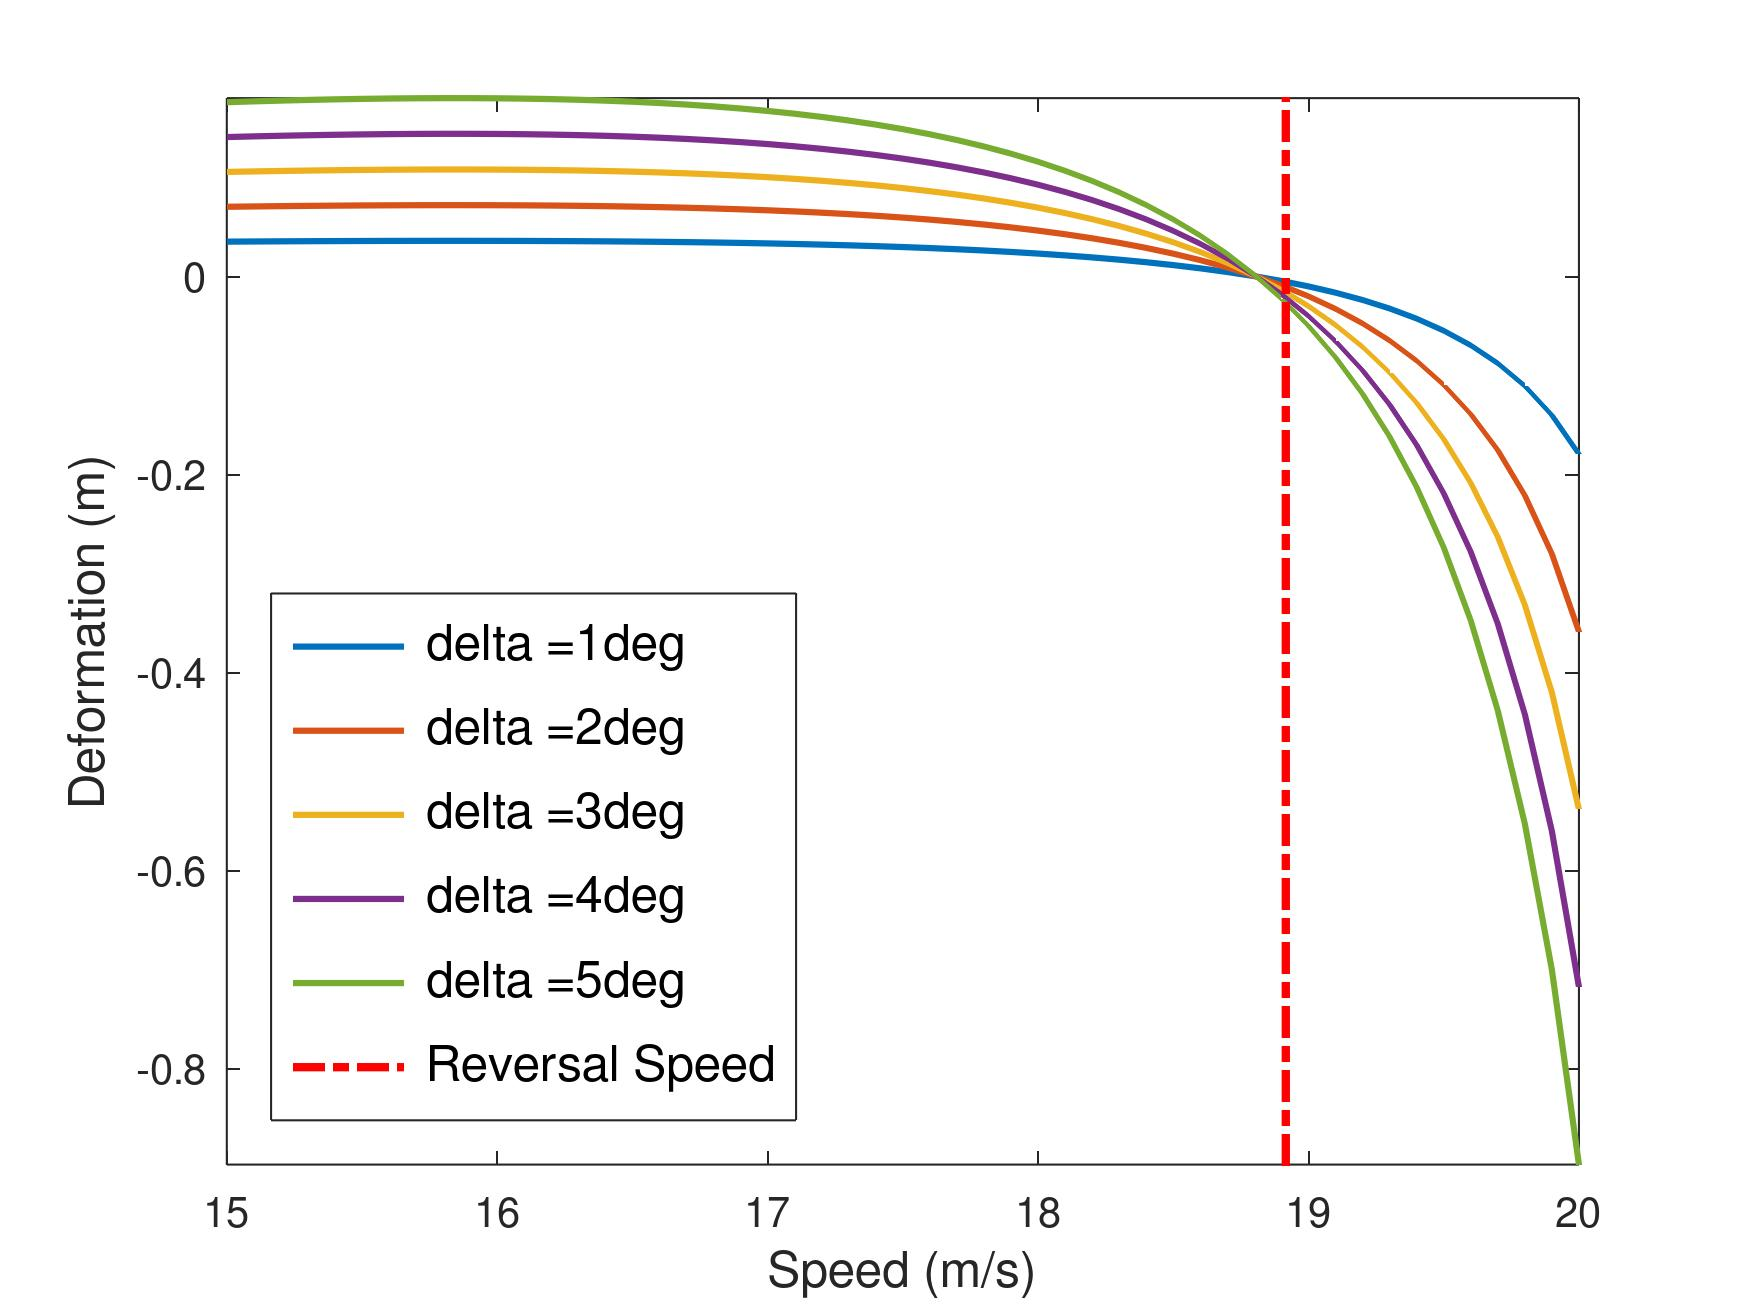
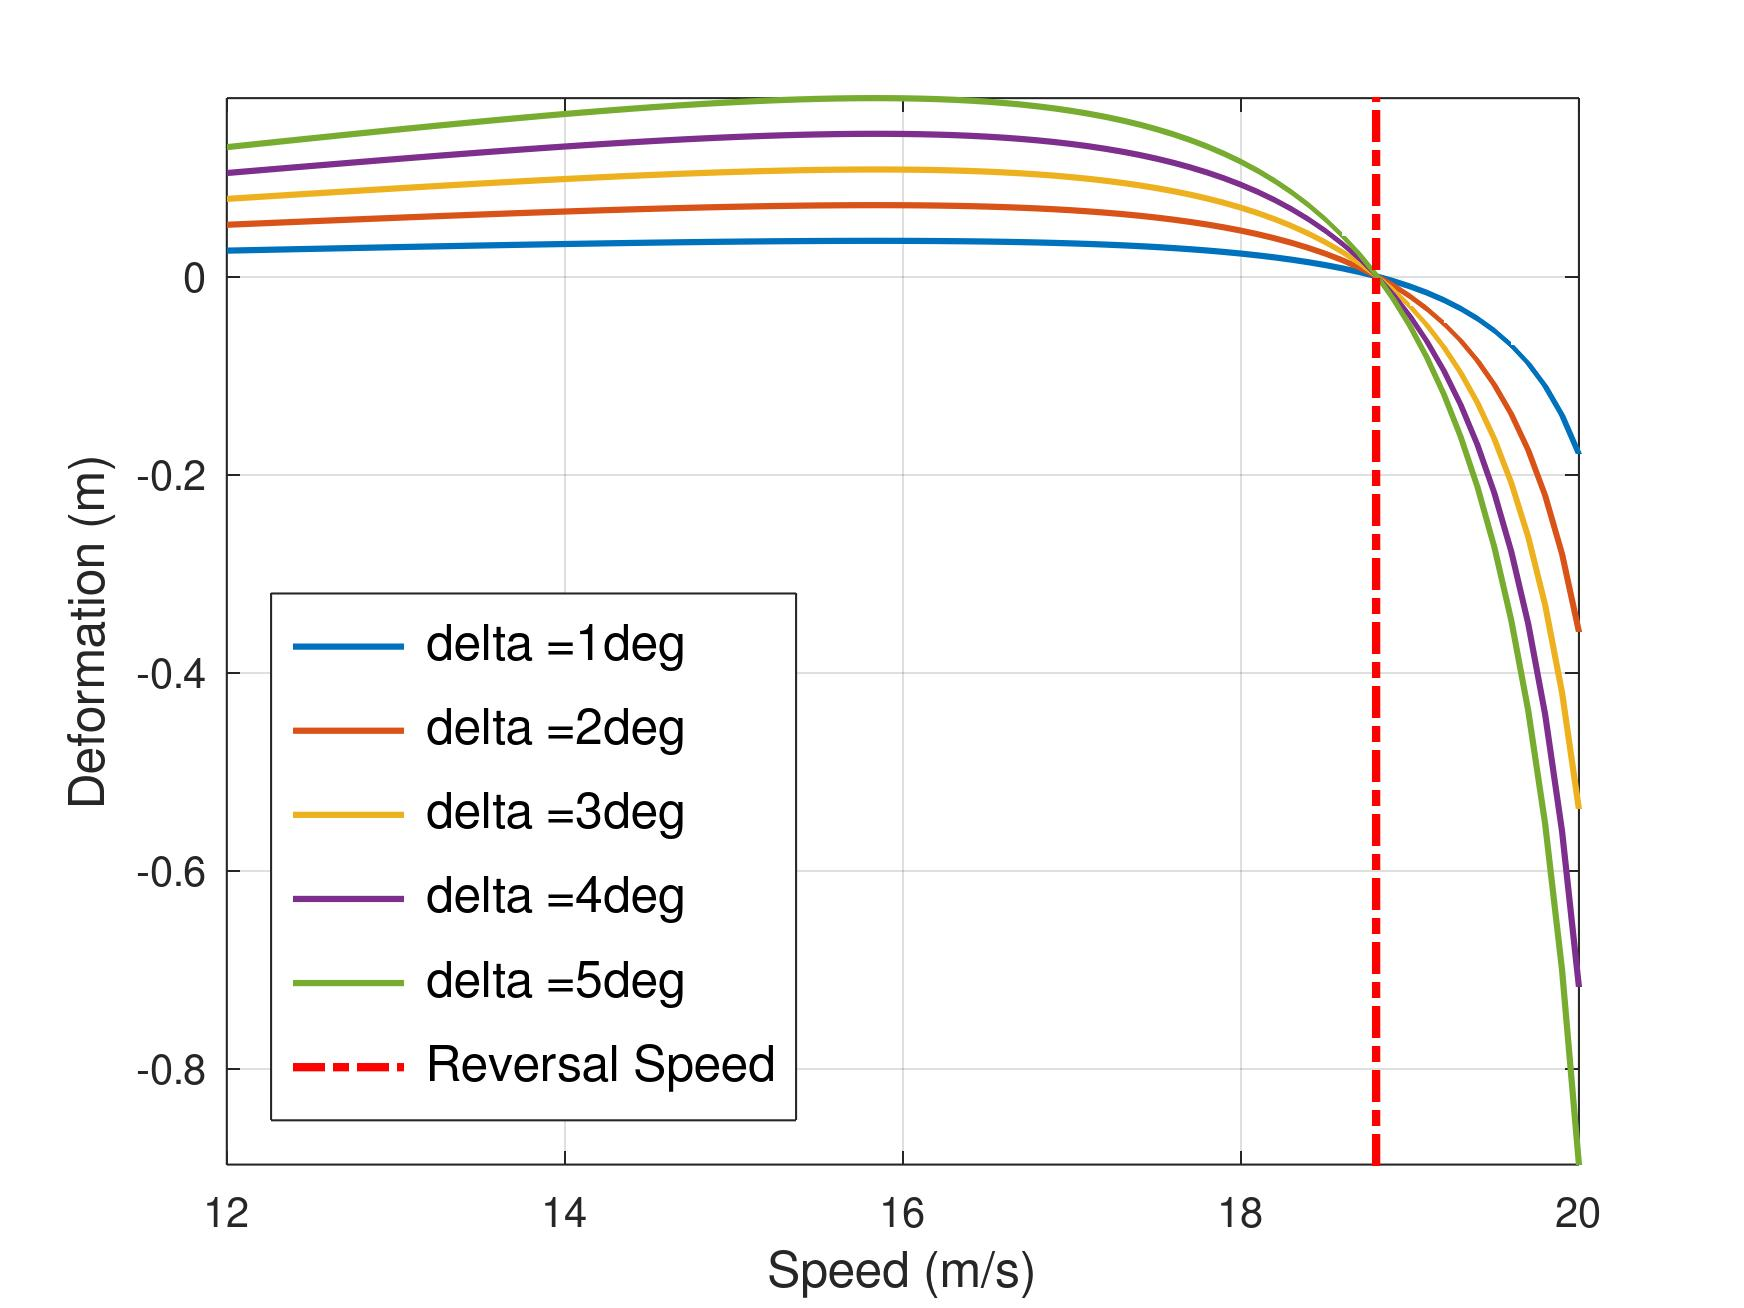
revseral plot uploaded

diff --git a/pkbeam/Nov14_reversal.m b/pkbeam/Nov14_reversal.m
@@ -12,7 +12,7 @@ l =1.6; % m
 b = 0.175; % m
 ba = 0.03 ;
 % measured from lab % Not correct need to be calculate again
-mhinge = 0;
+mhinge = 28/1000;
 t = 0.004;%m
 
 rhop = 1950; % Measured Density
@@ -55,7 +55,7 @@ delta = del.*pi/180; % rad
 % Set speed
 iu = 0; 
 
-for u = 15:.1:20
+for u = 12:.1:20
     iu = iu+1;
     
     q = 0.5* Qip.rho * u * u;
@@ -64,61 +64,77 @@ for u = 15:.1:20
         % Solve for the deformation
         v = (K-q*A)\(q*f*delta(d));
             
-            % plotmode(v);
 
             % Plot deformation 
         v_all(iu,:) = v;
+        CR(d,iu) = CRv * v + CRd*d;
         deform_tip(d,iu) = v(end-2);
     end
     uv(iu) = u;
 end
 
+% A_eig = A - f*CRv./CRd;
+% [V,D] = eig(A_eig , K);
+% qrev = 1/max(diag(D));
+% urev = sqrt(2*qrev/Qip.rho);
+
+
+location = abs(deform_tip(1,:)-deform_tip(2,:)) <= 0.001;
+urev = uv(location);
+% Plot the deformation VS velocity 
+% figure(1)
+
+% for d = del
+% plot(uv,deform_tip(d,:),"-","linewidth",1.5);
+% hold on 
+
+% end
+% plot([urev urev],[min(min(deform_tip))-0.2 max(max(deform_tip))+0.2],"r-.","linewidth",2);
+% grid()
+% leg = legend({  ["{\delta} ="   num2str(del(1)) "deg"], ...
+%                 ["{\delta} =" num2str(del(2)) "deg"], ...
+%                 ["{\delta} =" num2str(del(3)) "deg"], ...
+%                 ["{\delta} =" num2str(del(4)) "deg"], ...
+%                 ["{\delta} =" num2str(del(5)) "deg"], ...
+%                 ["Reversal Speed"],...
+            
+
+
+%             });
+% axis([min(uv) max(uv) min(min(deform_tip)) max(max(deform_tip))])
+% set(leg,"location","southwest","fontsize",12,'interpreter', 'tex');
+% xlabel("Speed (m/s)","fontsize",12);
+% ylabel("Deformation (m)","fontsize",12);
+
+% print -djpg -r300 Reversal_vs_speed.jpg
+
 A_eig = A - f*CRv./CRd;
 [V,D] = eig(A_eig , K);
 qrev = 1/max(diag(D));
 urev = sqrt(2*qrev/Qip.rho);
-
-% Plot the deformation VS velocity 
-figure(1)
-
-for d = del
-plot(uv,deform_tip(d,:),"linewidth",1.5);
-hold on 
-end
-plot([urev urev],[min(min(deform_tip))-0.2 max(max(deform_tip))+0.2],"r-.","linewidth",2);
-leg = legend({  ["{\delta} ="   num2str(del(1)) "deg"], ...
-                ["{\delta} =" num2str(del(2)) "deg"], ...
-                ["{\delta} =" num2str(del(3)) "deg"], ...
-                ["{\delta} =" num2str(del(4)) "deg"], ...
-                ["{\delta} =" num2str(del(5)) "deg"], ...
-                ["Reversal Speed"]
-
-
-            });
-axis([min(uv) max(uv) min(min(deform_tip)) max(max(deform_tip))])
-set(leg,"location","southwest","fontsize",12,'interpreter', 'tex');
-xlabel("Speed (m/s)","fontsize",12);
-ylabel("Deformation (m)","fontsize",12);
-
-print -djpg -r300 Reversal_vs_speed.jpg
-
 fprintf("The reverse velocity is %.2f\n",urev);
+% figure(2)
+% plot(uv,CR(1,:));
+% hold on
+% plot([urev urev],[(min(CR(1,:))) max(CR(1,:))],"r-.","linewidth",2);
+
+figure(12)
+plotmode_multi(v_all(68,:));
+hold on
+plotmode_multi(v_all(location,:));
+plotmode_multi(v_all(72,:));
+grid()
+axis([0 l+0.1 -0.1 0.05]);
+leg = legend({  ["u = " num2str(uv(68)) "m/s"], ...
+                ["u_{reversal} =" num2str(uv(70)) "m/s"],....
+                ["u = " num2str(uv(72)) "m/s"],....
+            
+            })
+            
+set(leg,'location',"southwest","fontsize",14);
+print -djpg -r300 Reversal_deflection.jpg
 
 return;
-% Compute the aileron reverse
-A_eig = A - f*CRv./CRd;
-[V,D] = eig(A_eig , K);
-qrev = 1/max(diag(D));
-urev = sqrt(2*qrev/Qip.rho);
-
-figure(2)
-set(get(gca, 'Title'), 'String', 'The deformation before reversal speed');
-plotmode(v_all(30,:));
-
-figure(3)
-set(get(gca, 'Title'), 'String', 'The deformation after reversal speed');
-plotmode(v_all(42,:));
-
 % The reversal speed should be less than divergence
 % The flutter velocity should be lower than the divergence
 % u_flutter = 16 

diff --git a/pkbeam/Dec1_windtunnel.m b/pkbeam/Dec1_windtunnel.m
@@ -34,7 +34,7 @@ B = eye(3,ndof);
 nmode = 6;
 neig = 3;
 
-npmass = 12 ;
+npmass = 8 ;
 m1 = (40.33+6.39+2)/1000; %kg
 m2 = (20.06+2*2)/1000; %kg
 m3 = (40.33+2*6.39+2*2)/1000; %kg
@@ -53,22 +53,24 @@ ex_mass2 = 100/1000;
 ex_mass3 = 150/1000;
 % Method 1 Flutter speed = 24.4/s for DLM & 20.50 for Strip
 
-dpm(8,:) = [2*ex_mass3,-b l];
-dpm(9,:) = [2*ex_mass2,-b (5.5/6) *l]; % 1.4667m
+dpm(8,:) = [300/1000 -b l];
+dpm(9,:) = [100/1000 -b l-0.1];
+dpm(10,:) = [100/1000 -b l-0.4];
+% dpm(9,:) = [2*ex_mass2,-b (5.5/6) *l]; % 1.4667m
 
-% % Method 2 Flutter speed = 24.9m/s for DLM & 20.90m/s for Strip
-dpm(8,:) = [ex_mass3+ex_mass3,-b l];
-dpm(9,:) = [ex_mass2+ex_mass2,-b (4.8/5) *l]; %1.5360m
+% % % Method 2 Flutter speed = 24.9m/s for DLM & 20.90m/s for Strip
+% dpm(8,:) = [ex_mass3+ex_mass3,-b l];
+% dpm(9,:) = [ex_mass2+ex_mass2,-b (4.8/5) *l]; %1.5360m
 
-% % Method 3 Flutter speed = 25.50 m/s for DLM & 21.4m/s for Strip
-dpm(8,:) = [ex_mass3+ex_mass3,-b l];
-dpm(9,:) = [ex_mass2+ex_mass2,-b (4.8/5) *l];
-dpm(10,:) = [ex_mass1*2,-b (3.5/5) *l]; % 1.12m
+% % % Method 3 Flutter speed = 25.50 m/s for DLM & 21.4m/s for Strip
+% dpm(8,:) = [ex_mass3+ex_mass3,-b l];
+% dpm(9,:) = [ex_mass2+ex_mass2,-b (4.8/5) *l];
+% dpm(10,:) = [ex_mass1*2,-b (3.5/5) *l]; % 1.12m
 
-% % Method 4 Flutter speed = 25.700 m/s for DLM & 21.50m/s for Strip
-dpm(8,:) = [ex_mass3+ex_mass3,-b l];
-dpm(9,:) = [ex_mass2+ex_mass2,-b (4.8/5) *l];
-dpm(10,:) = [ex_mass1*2,-b (3.7/5) *l]; % 1.184m
+% % % Method 4 Flutter speed = 25.700 m/s for DLM & 21.50m/s for Strip
+% dpm(8,:) = [ex_mass3+ex_mass3,-b l];
+% dpm(9,:) = [ex_mass2+ex_mass2,-b (4.8/5) *l];
+% dpm(10,:) = [ex_mass1*2,-b (3.7/5) *l]; % 1.184m
 
 
 ##################################
@@ -78,17 +80,18 @@ dQip = read_dlm(Z);
 [Km,Mm,Zm,mQip]=ReduceDim(M,K,dQip,nmode);
 [ucrit,pcrit,zcrit,pconv,uvec] = flutter(Mm,Km,mQip,neig,150);
 fprintf("\nFlutter Speed  is %.3f m/s\n",ucrit);
-% fprintf("Flutter Frequency  is %.3f rad/s\n",pcrit);
+fprintf("Flutter Frequency  is %.3f rad/s\n",pcrit);
 [udiv,zdiv] = divergence(K, dQip);
 fprintf(1,'Divergence speed: %.3f m/s \n', udiv);
 [urev,zrev] = reversal(K, dQip, f, CRv, CRd);
-% fprintf(1,'Reversal speed: %.3f m/s \n', urev);
+fprintf(1,'Reversal speed: %.3f m/s \n', urev);
 % Rootlocus(pconv,neig);
 % figure(14)
-plot(uvec,real(pconv),"o");
-
-
-
+% plot(uvec,real(pconv),"-o","markersize",4.5);
+% hold on 
+% plot([min(uvec) max(uvec)],[0 0]);
+% axis([min(uvec) max(uvec)])
+return;
 #######################################################################################################################
 fprintf("\n Strip Theory Results \n")
 % Strip Theory
@@ -96,7 +99,7 @@ fprintf("\n Strip Theory Results \n")
 
 [Km,Mm,Zm,mQip]=ReduceDim(M,K,Qip,nmode);
 
-[ucrit,pcrit,zcrit,pconv,uvec] = flutter(Mm,Km,mQip,neig);
+[ucrit,pcrit,zcrit,pconv,uvec] = flutter(Mm,Km,mQip,neig,50);
 fprintf("\nFlutter Speed  is %.2f m/s\n",ucrit);
 fprintf("Flutter Frequency  is %.2f rad/s\n",pcrit);
 [udiv,zdiv] = divergence(K, Qip);

diff --git a/pkbeam/plotmode_multi.m b/pkbeam/plotmode_multi.m
@@ -1,0 +1,56 @@
+function plotmode_multi(v)
+% plotmode(v)
+%
+% Plots nodal deflection and twist versus span.
+%
+% v :     deflection to plot, assuming beam DOFs [w, phi, theta]
+%
+% (c) 2016 Dan Borglund <dodde@kth.se> and David Eller <dlr@kth.se>
+
+  % constants
+  l = 1.6;
+
+  % dimensions
+  ndof = length(v);
+  nnode = ndof/3;
+  yp = linspace(0.0, l, nnode);
+
+  % check dimension of v
+  if numel(v) ~= ndof
+    error('plotmode: Can only plot one modeshape at a time.');
+  elseif mod(ndof,3) ~= 0
+    error('plotmode: Number of DOFs is not a multiple of 3.');
+  end
+
+  % Extract bending and torsion dofs section by section
+  for k = 1:nnode
+    w(k) = v(1+3*(k-1)); % nodal deflection
+    t(k) = 180/pi * v(3+3*(k-1)); % nodal twist
+  end
+
+  % distinct plot for no deformation
+  if max(abs(w)) < 1e-9
+    w = zeros(1,nnode);
+  elseif max(abs(t)) < 1e-9
+    t = zeros(1,nnode);
+  end
+
+  % Plot modeshape
+  
+  % subplot(4,1,[1 2])
+  hold on
+    plot(yp, w,"linewidth",2)
+    % title('Deformation of elastic axis',"fontsize",25)
+    ylabel('Deflection [m]',"fontsize",20)
+    xlabel('Span coordinate [m]',"fontsize",20)
+    box
+  hold off
+  % subplot(4,1,[3 4])
+  % hold on
+  %   plot(yp, t,"linewidth",1.5)
+    
+  %   ylabel('Twist [deg]',"fontsize",20)
+  %   box
+  % hold off
+  %for save figure
+  %print -djpg Modeshape.jpg

diff --git a/pkbeam/Rootlocus.m b/pkbeam/Rootlocus.m
@@ -8,7 +8,7 @@ function Rootlocus(pconv,neig)
     x0=100;y0=850;width=550;height=400;
     set(gcf,'position',[x0,y0,width,height]);
     for i = 1:neig
-    plt(i)=plot(real(pconv(i,:)),imag(pconv(i,:)),"o-","linewidth",0.8,"markersize",4.5,"Displayname",["Mode" num2str(i)]);
+    plt(i)=plot(real(pconv(i,:)),imag(pconv(i,:)),"o-","linewidth",0.8,"markersize",3.5,"Displayname",["Mode" num2str(i)]);
 
     hold on 
     end
